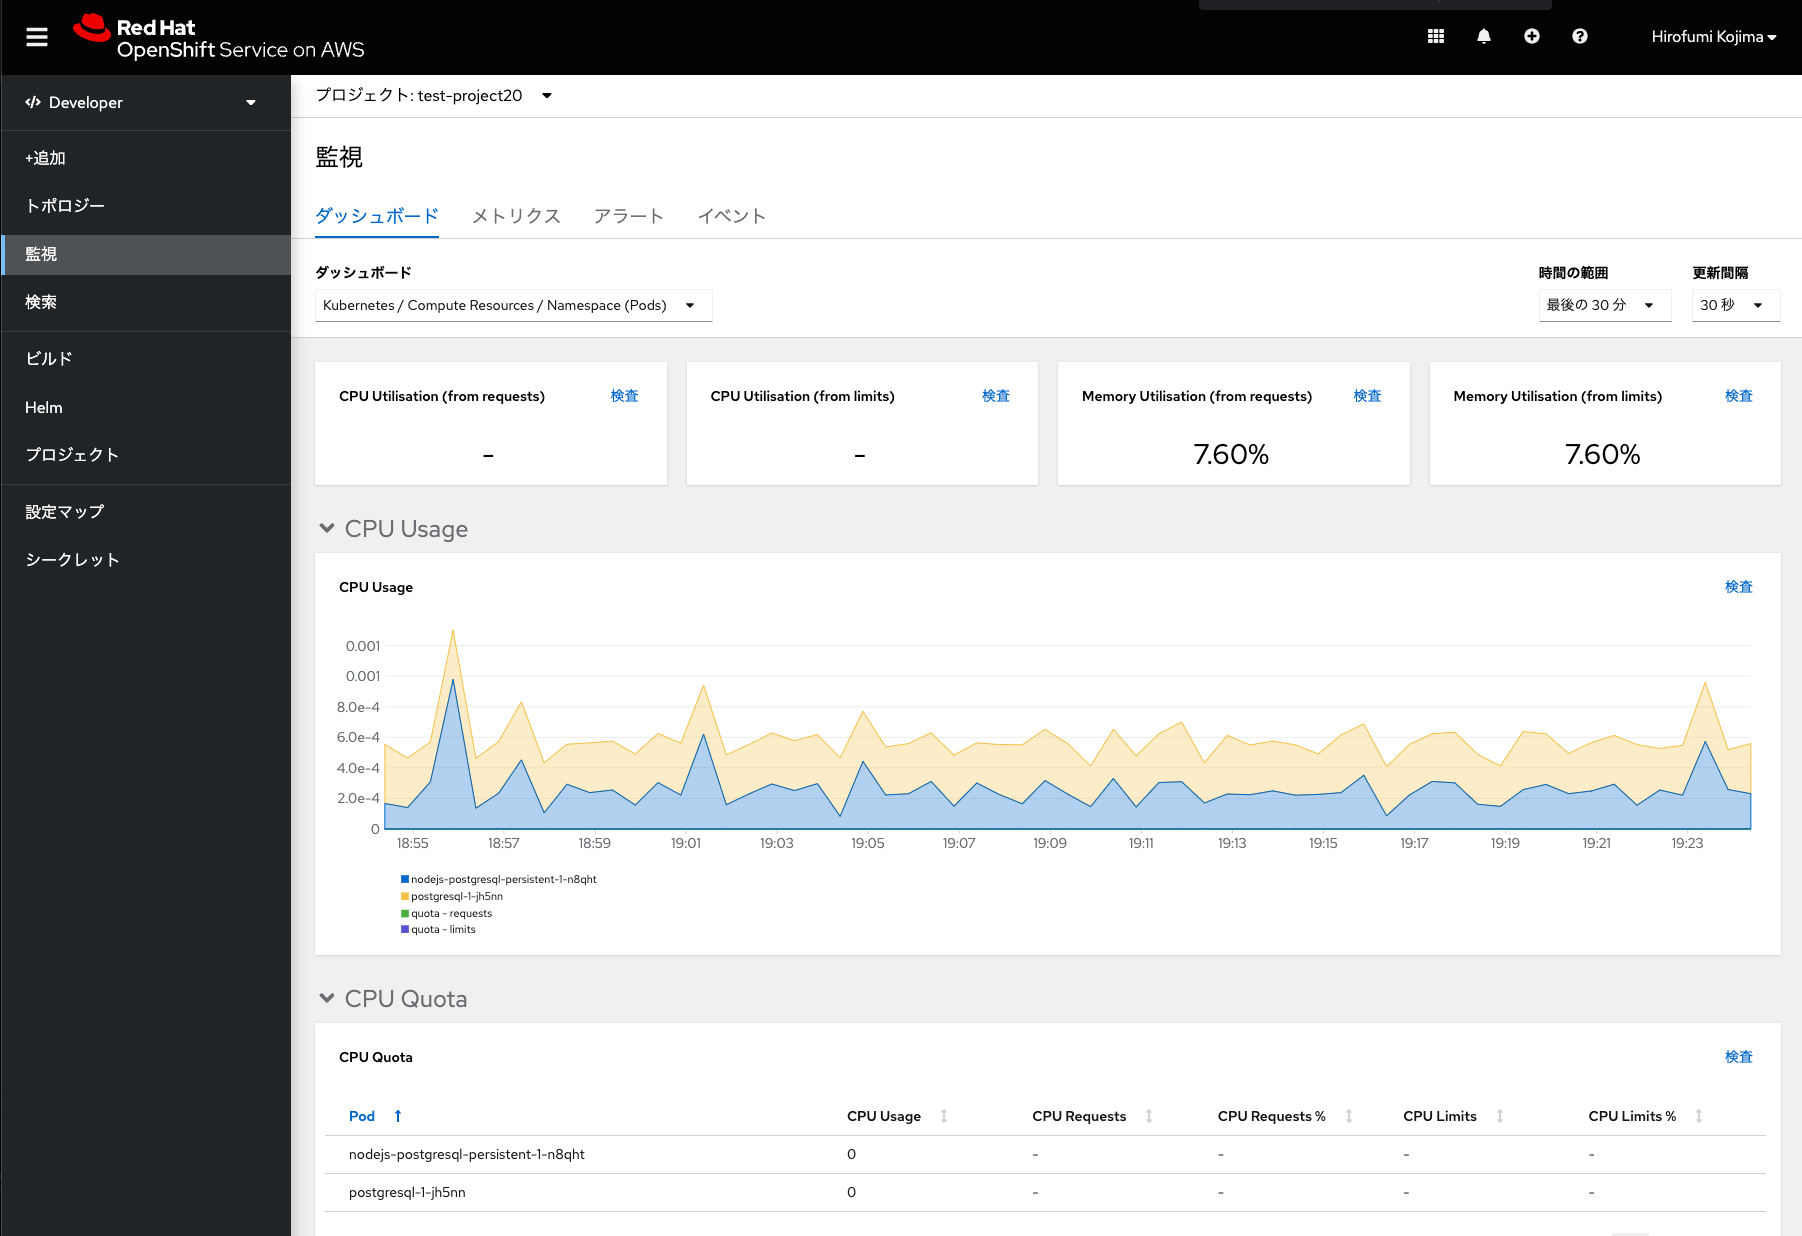
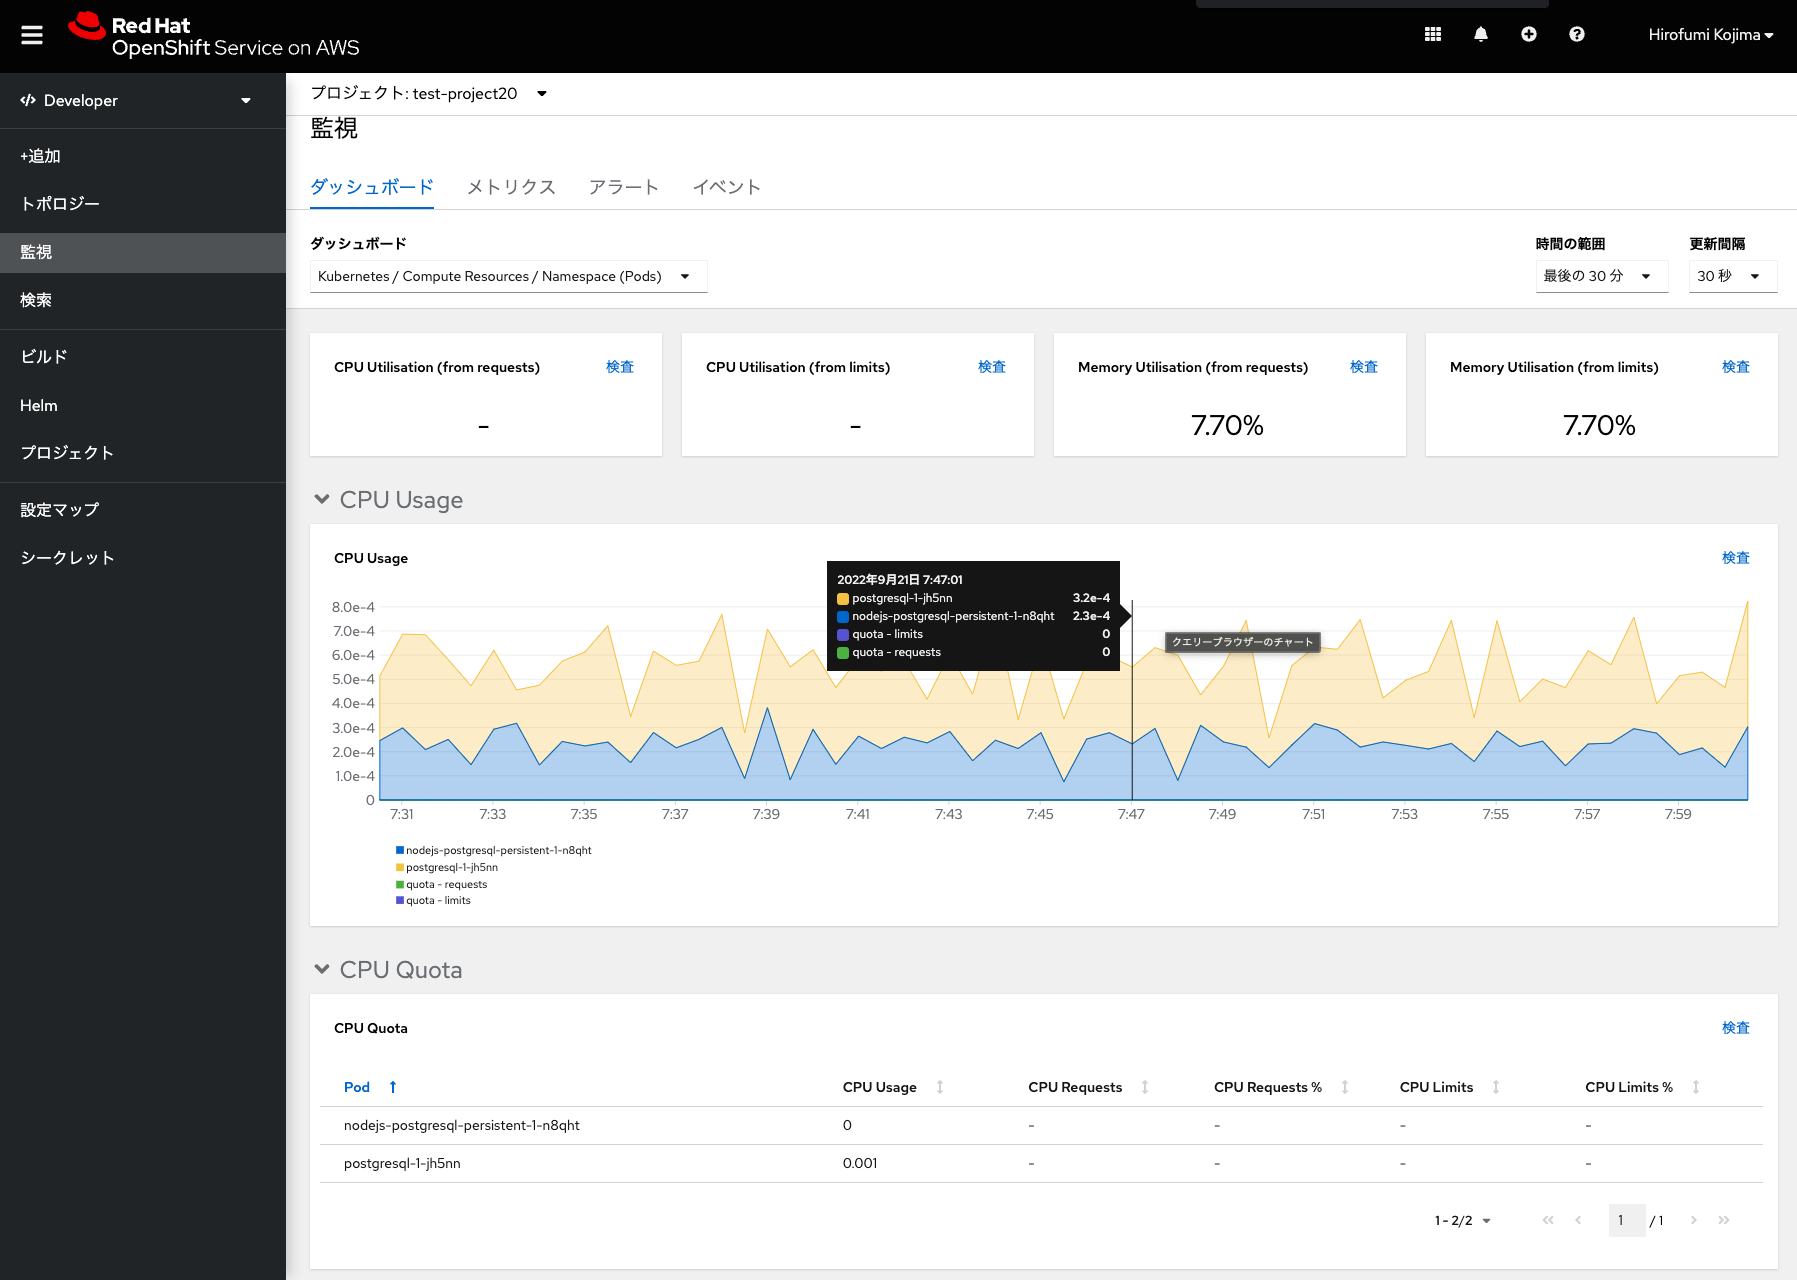
updated

diff --git a/docs/rosa-logs-and-monitor/README.md b/docs/rosa-logs-and-monitor/README.md
@@ -149,7 +149,7 @@ PodのCPUとメモリ使用については、「リミット(制限)」と「リ
 
 [参考情報] [コンテナのリソース管理の「要求と制限」](https://kubernetes.io/ja/docs/concepts/configuration/manage-resources-containers/)を参照
 
-このダッシュボードにある、CPUやメモリの活用率は、これらの「リミット」と「リクエスト」の値に対してどのくらい使用されているか、という情報となります。上記画像の例では、活用率は7.60%となっているため、まだまだリソースに余裕があるということを示しています。
+このダッシュボードにある、CPUやメモリの使用率は、これらの「リミット」と「リクエスト」の値に対してどのくらい使用されているか、という情報となります。上記画像の例では、使用率は7.70%となっているため、まだまだリソースに余裕があるということを示しています。
 
 「メトリクス」タブでは、Prometheusのクエリ(PromQL)によるグラフ表示が可能です。予め用意されたクエリ(メモリー使用量など)を用いて、データを確認してみてください。本演習では扱いませんが、カスタムクエリを実施したい場合、[こちらのドキュメント](https://prometheus.io/docs/prometheus/latest/querying/basics/)を参考にできます。
 
